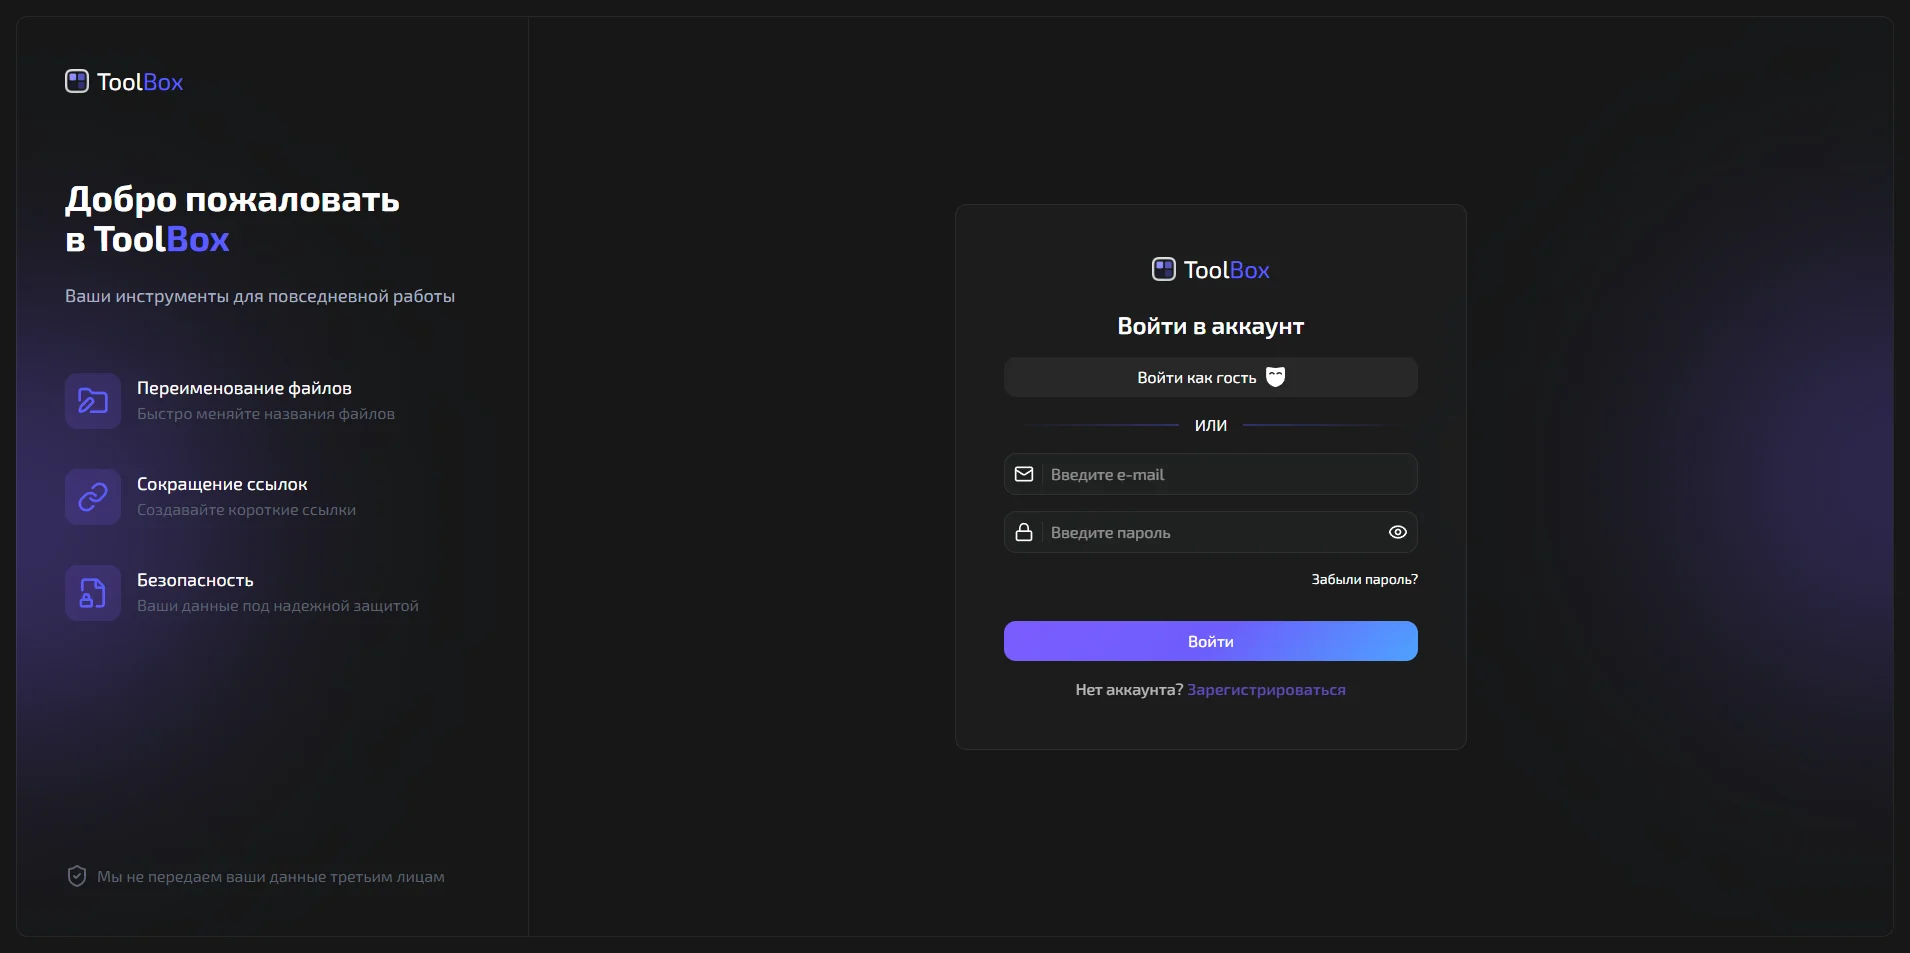
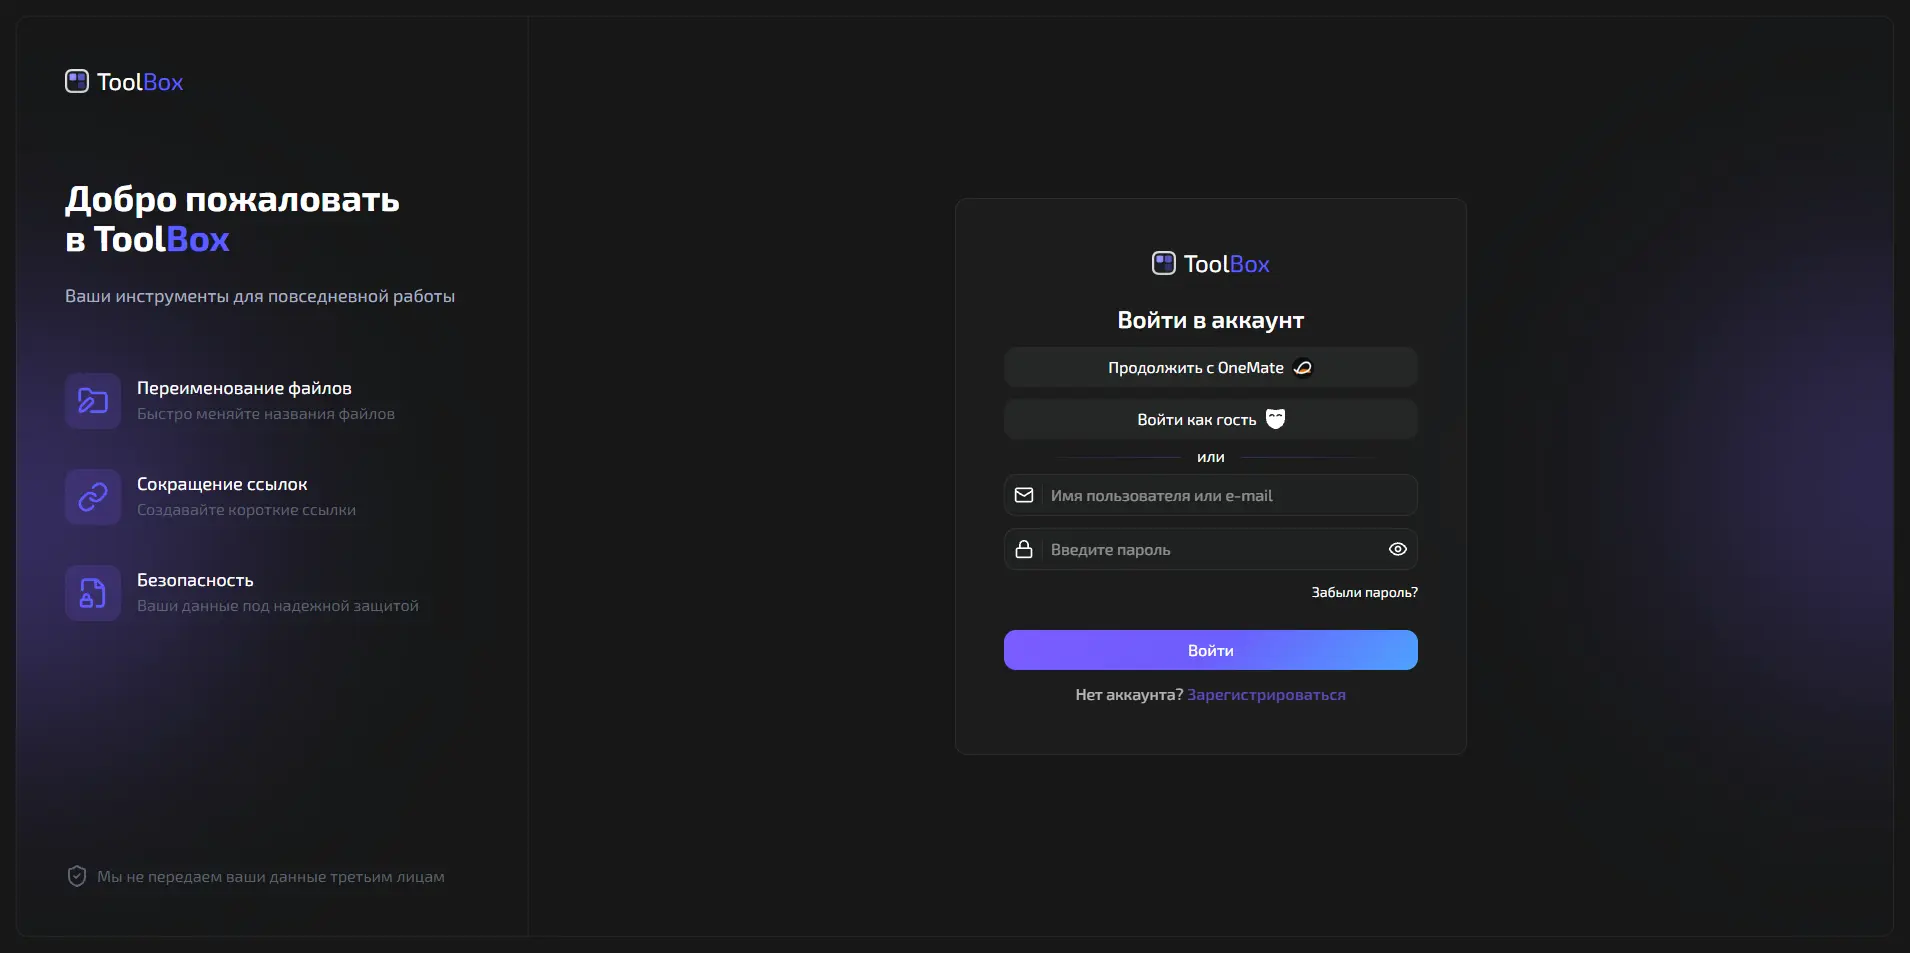
chore: update readme and docs

Changed region(s): [[0.5251, 0.5477, 0.7414, 0.7608], [0.5869, 0.2434, 0.7105, 0.4869], [0.5251, 0.4869, 0.6796, 0.5782]]

diff --git a/README.md b/README.md
@@ -1,75 +1,81 @@
-[![React](https://img.shields.io/badge/React-19-blue)](#)
-[![TypeScript](https://img.shields.io/badge/TypeScript-6.x-blue)](#)
-[![TailwindCSS](https://img.shields.io/badge/Tailwind-4.x-38B2AC)](#)
-[![MobX](https://img.shields.io/badge/MobX-6.x-orange)](#)
-[![Vite](https://img.shields.io/badge/Vite-8.x-646CFF)](#)
-[![Laravel](https://img.shields.io/badge/Laravel-13.x-FF2D20)](#)
-[![PostgreSQL](https://img.shields.io/badge/PostgreSQL-16.x-336791)](#)
-[![version](https://badgen.net/badge/version/v1.0.0?icon=tag&scale=1)](#)
+[![React](https://img.shields.io/badge/React-19-149ECA)](#технологический-стек)
+[![TypeScript](https://img.shields.io/badge/TypeScript-6.x-3178C6)](#технологический-стек)
+[![Tailwind CSS](https://img.shields.io/badge/Tailwind-4.x-06B6D4)](#технологический-стек)
+[![MobX](https://img.shields.io/badge/MobX-7.x-FF9955)](#технологический-стек)
+[![Vite](https://img.shields.io/badge/Vite-8.x-646CFF)](#технологический-стек)
+[![Laravel](https://img.shields.io/badge/Laravel-13-FF2D20)](#технологический-стек)
+[![PostgreSQL](https://img.shields.io/badge/PostgreSQL-16-4169E1)](#технологический-стек)
+[![Version](https://img.shields.io/badge/version-1.5.0-e98224)](#)
+
+<div align="center">
 
 # ToolBox – твои инструменты в одном месте
 
-**ToolBox** – fullstack-платформа специализированных веб-инструментов для решения прикладных задач. Проект объединяет отдельные сервисы в единую экосистему с общей авторизацией, пользовательским профилем и масштабируемой архитектурой.
+</div>
 
-> [!IMPORTANT]
->
-> Посмотреть проект в деле:
->
-> [![ToolBox](https://img.shields.io/badge/ToolBox-Перейти_на_сайт-4F46E5?style=for-the-badge&logo=google-chrome&logoColor=white)](https://toolbox.letunoff.ru)
+**ToolBox** – веб-приложение, объединяющее специализированные инструменты для решения повседневных задач в едином рабочем пространстве.
+
+<p align="center">
+  <a href="https://toolbox.letunoff.ru">
+    <img src="https://img.shields.io/badge/Открыть_ToolBox-7c5cff?style=for-the-badge" alt="Открыть ToolBox">
+  </a>
+</p>
+
+<div align="center">
+  <img src="./docs/screenshots/home.webp" alt="Home" width="800">
+</div>
+
+## Модули
+
+### Переименование файлов
+
+**Пакетный переименователь** для массового изменения имён файлов по заданному шаблону с предварительным просмотром результатов.
+
+- загрузка файлов через drag & drop или диалог выбора;
+- настройка префикса, суффикса и порядковой нумерации;
+- предварительный просмотр новых имён до скачивания;
+- скачивание обработанных файлов одним ZIP-архивом.
+
+### Сокращение ссылок
+
+**Менеджер коротких ссылок** для создания, хранения и управления сокращёнными URL.
+
+- сокращение исходных URL;
+- просмотр и управление историей созданных ссылок;
+- возможность быстро поделиться ссылкой или QR-кодом;
+- открытие, удаление и закрепление ссылок;
+- сохранение данных между сессиями.
 
 ## Технологический стек
 
 ### Frontend
 
-- **React** + **TypeScript** – компонентная архитектура и строгая типизация;
-- **FSD (Feature-Sliced Design)** – четкое разделение ответственности и масштабируемая структура;
+- **React** и **TypeScript** – компонентная архитектура и строгая типизация;
+- **FSD (Feature-Sliced Design)** – чёткое разделение ответственности и масштабируемая структура;
 - **Tailwind CSS** – единый визуальный стиль и быстрая адаптивная вёрстка;
 - **MobX** – реактивное управление состоянием с лаконичным синтаксисом;
 - **Vite** – быстрый запуск и оптимизированная сборка.
 
 ### Backend
 
-- **Laravel** – REST API и серверная бизнес-логика;
-- **Sanctum** – безопасная cookie-based аутентификация;
-- **PostgreSQL** – хранение и управление данными приложения;
-- **Resend** – отправка транзакционных email-уведомлений;
-- **Redis** – кэширование данных и обработка фоновых задач.
+- **Laravel** и **Sanctum** – серверная бизнес-логика, REST API и сессионная аутентификация;
+- **PostgreSQL** – реляционное хранение данных и управление связями между сущностями;
+- **Laravel Queues** и **Scheduler** – асинхронное выполнение задач и автоматизация периодических процессов.
 
 ### DevOps & Infrastructure
 
-- **Docker** – контейнеризация приложений и унификация окружения;
-- **Docker Compose** – управление многоконтейнерной инфраструктурой;
+- **Docker** и **Docker Compose** – контейнеризация приложений и унификация окружения;
 - **Nginx** – reverse proxy и раздача приложений;
 - **VPS** – деплой и администрирование проекта.
 
 ## Возможности
 
-- регистрация и авторизация пользователей;
-- подтверждение и смена e-mail, восстановление и смена пароля;
-- персональный профиль пользователя;
-- интернационализация (i18n);
-- светлая и тёмная тема;
-- адаптивный интерфейс для desktop и mobile;
-- защищённые маршруты для авторизованных пользователей;
-- масштабируемая система подключения новых инструментов.
-
-## Модули
-
-**Пакетный переименователь файлов** – массовое переименование файлов по заданному шаблону.
-
-- загрузка произвольного набора файлов через drag & drop или диалог;
-- задание префикса и суффикса относительно порядкового номера через маску;
-- мгновенный предпросмотр итоговых имён до скачивания;
-- скачивание переименованных файлов одним ZIP-архивом.
-
-**Сократитель ссылок** – генерация коротких ссылок с полноценным менеджером истории.
-
-- создание короткой ссылки из любого URL в один клик;
-- отдельная таблица истории всех сокращённых ссылок;
-- возможность быстро поделиться ссылкой или QR-кодом;
-- быстрые действия для каждой записи: открыть, скопировать, удалить, показать QR-код;
-- закрепление ссылок от удаления для постоянного пользования;
-- хранение ссылок на сервере с сохранением между сессиями.
+- **Авторизация** – регистрация, вход по email и через OneMate по OAuth 2.0;
+- **Учётная запись** – управление профилем, смена пароля и восстановление доступа;
+- **Связанные приложения** – привязка и отключение OneMate без потери доступа к аккаунту ToolBox;
+- **Интерфейс** – адаптивная вёрстка для всех устройств, светлая и тёмная темы;
+- **Локализация** – поддержка нескольких языков интерфейса;
+- **Демо-режим** – знакомство с возможностями без регистрации.
 
 ## Скриншоты
 
@@ -77,20 +83,11 @@
   <summary>Показать</summary>
   <p align="center">
     <img src="./docs/screenshots/auth.webp" alt="Auth" width="800">
-    <br>
-    <img src="./docs/screenshots/home.webp" alt="Home" width="800">
-    <br>
     <img src="./docs/screenshots/renamer.webp" alt="Renamer" width="800">
-    <br>
     <img src="./docs/screenshots/shortener.webp" alt="Shortener" width="800">
   </p>
 </details>
 
 ## Автор
 
-> [!TIP]
->
-> #### Евгений Летунов
->
-> [![Евгений Летунов](https://img.shields.io/badge/%D0%95%D0%B2%D0%B3%D0%B5%D0%BD%D0%B8%D0%B9_%D0%9B%D0%B5%D1%82%D1%83%D0%BD%D0%BE%D0%B2-Frontend_Dev-0A66C2?style=for-the-badge&logo=react&logoColor=white)](https://letunoff.ru)
-> [![Telegram](https://img.shields.io/badge/@defrazo-Telegram-26A5E4?style=for-the-badge&logo=telegram&logoColor=white)](https://t.me/defrazo)
+[![Евгений Летунов](https://img.shields.io/badge/%D0%95%D0%B2%D0%B3%D0%B5%D0%BD%D0%B8%D0%B9_%D0%9B%D0%B5%D1%82%D1%83%D0%BD%D0%BE%D0%B2-Fullstack_Dev-0A66C2?style=for-the-badge&logo=github&logoColor=white)](https://letunoff.ru) [![Telegram](https://img.shields.io/badge/@defrazo-Telegram-26A5E4?style=for-the-badge&logo=telegram&logoColor=white)](https://t.me/defrazo)
